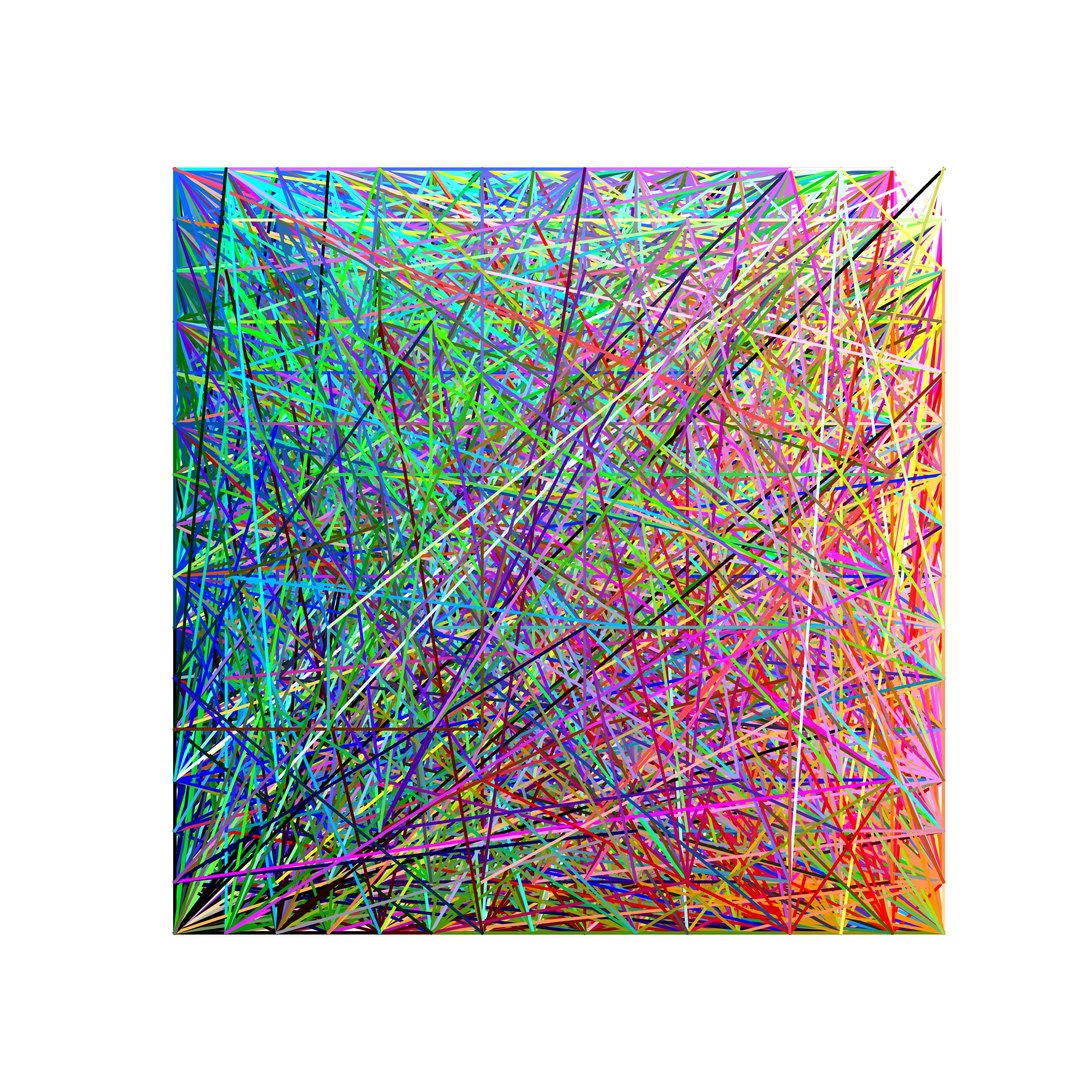
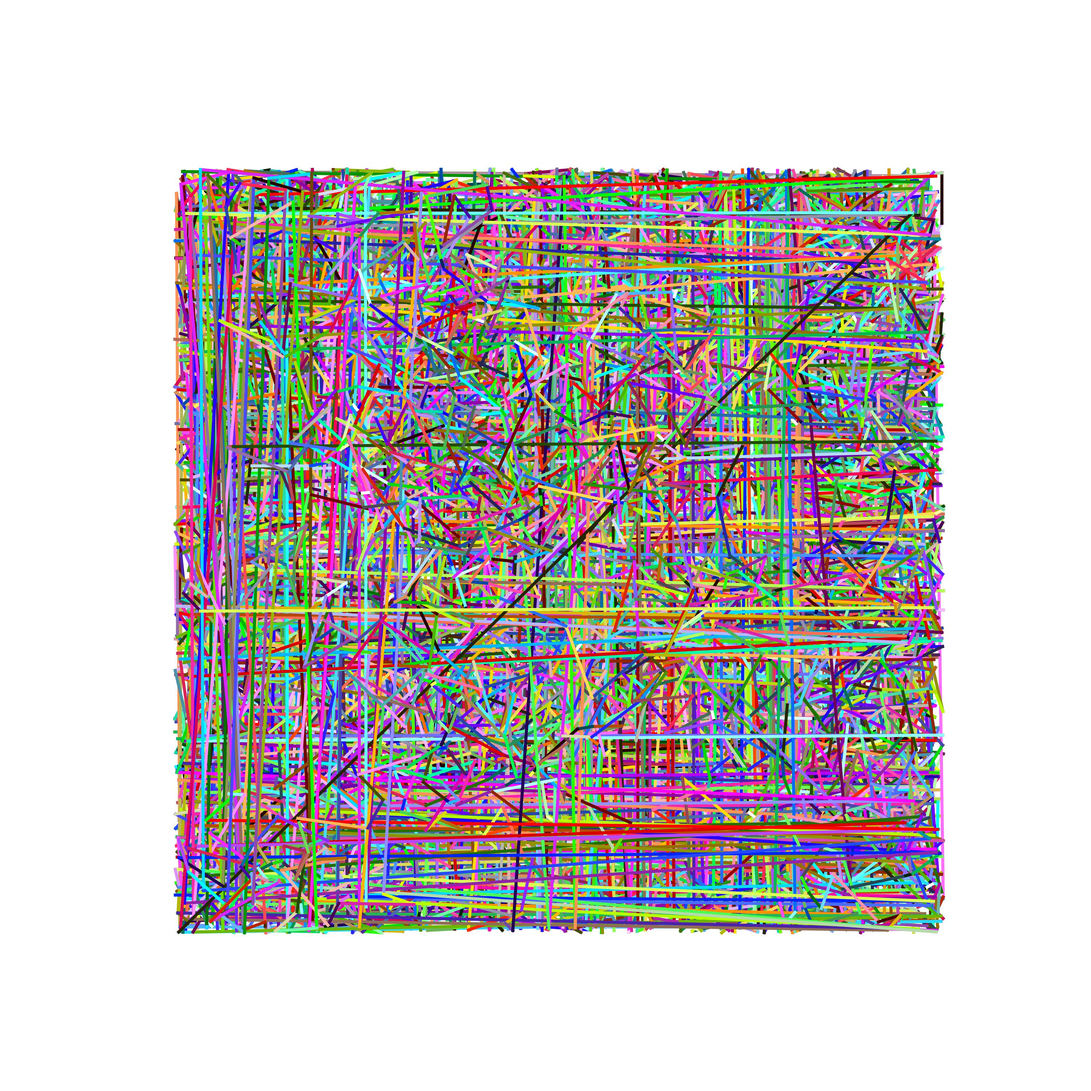
Code updated to calculate x and y with a cumulative value and example picture changed

diff --git a/binaryVis.py b/binaryVis.py
@@ -1,5 +1,4 @@
 import matplotlib.pyplot as plt
-import random
 import math
 
 def visualize_binary(file_path):
@@ -10,10 +9,10 @@ def visualize_binary(file_path):
     # Initialize a figure
     fig, ax = plt.subplots(figsize=(10, 10))
     ax.axis("off")  # Turn off the axes
-    
-    # Initialize starting coordinates (arbitrary starting point)
-    x, y = 0, 0
-    prev_x, prev_y = 0, 0
+
+    # Initialize starting coordinates and cumulative variables
+    x, y = 250, 250  # Start near the center of the plot
+    cumulative_sum = 0
 
     # Convert binary data into a list of binary strings
     binary_list = createList(binary_data)
@@ -21,47 +20,51 @@ def visualize_binary(file_path):
     print("Calculating values...")
 
     for binary_str in binary_list:
-        # Calculate the angle from the binary string (0 to 360 degrees)
-        angle = int(binary_str, 2) % 360  # Map the binary string to an angle
+        # Calculate a cumulative value from the binary string
+        binary_value = int(binary_str, 2)
+        cumulative_sum += binary_value  # Cascade effect
 
-        # Calculate the starting position using the binary string
-        # We can improve this by creating a more varied mapping
-        x = (int(binary_str[:4], 2) % 500)  # Use the first 4 bits for horizontal position
-        y = (int(binary_str[4:], 2) * 5 % 500)  # Use the last 4 bits for vertical position
-
-        # Use the sum of bits for line length to create variation
-        length = sum(int(bit) for bit in binary_str) * 10
+        # Map cumulative_sum to angle and step size
+        angle = cumulative_sum % 360  # Angle in degrees
+        step_size = (binary_value % 50) + 1  # Step size (1 to 50)
 
         # Convert angle to radians for trigonometric functions
-        angle_rad = (angle * math.pi) / 180
+        angle_rad = math.radians(angle)
 
-        # Calculate new position based on the angle
-        #x_new = x + length * math.cos(angle_rad)
-        #y_new = y + length * math.sin(angle_rad)
+        # Calculate new position based on angle and step size
+        x_new = x + step_size * math.cos(angle_rad)
+        y_new = y + step_size * math.sin(angle_rad)
 
-        # Generate a unique color based on the binary string (full byte for RGB)
+        # Ensure positions remain within bounds (wrap-around effect)
+        x_new %= 500
+        y_new %= 500
+
+        # Generate a unique color based on the binary string
         color = generate_unique_color(binary_str)
 
         # Draw the line
-        ax.plot([x, prev_x], [y, prev_y], color=color, linewidth=2)
+        ax.plot([x, x_new], [y, y_new], color=color, linewidth=2)
 
-        # Update coordinates for the next iteration
-        prev_x, prev_y = x, y
-    
+        # Update current position
+        x, y = x_new, y_new
+
     print("Displaying...")
 
     # Save or display the visualization
-    plt.savefig("binary_visualization.jpg", dpi=300)
+    plt.savefig("binary_visualization1.jpg", dpi=300)
     plt.show()
+
 
 def createList(data):
     print("Converting into list...")
     binary_str_list = []
+
     for byte in data:
         # Convert byte to binary (8-bit string)
         binary_str = f"{byte:08b}"
         binary_str_list.append(binary_str)
     return binary_str_list
+
 
 def generate_unique_color(binary_str):
     # Use the entire byte (8 bits) to generate an RGB color
@@ -69,8 +72,8 @@ def generate_unique_color(binary_str):
     g = int(binary_str[3:6], 2) / 7  # Next 3 bits for green (0-7)
     b = int(binary_str[6:], 2) / 3  # Last 2 bits for blue (0-3)
 
-    # You can also scale the values further to get a broader range of color combinations
     return [r, g, b]  # Return the RGB color value
+
 
 # Example usage
 visualize_binary("akita.jpg")
